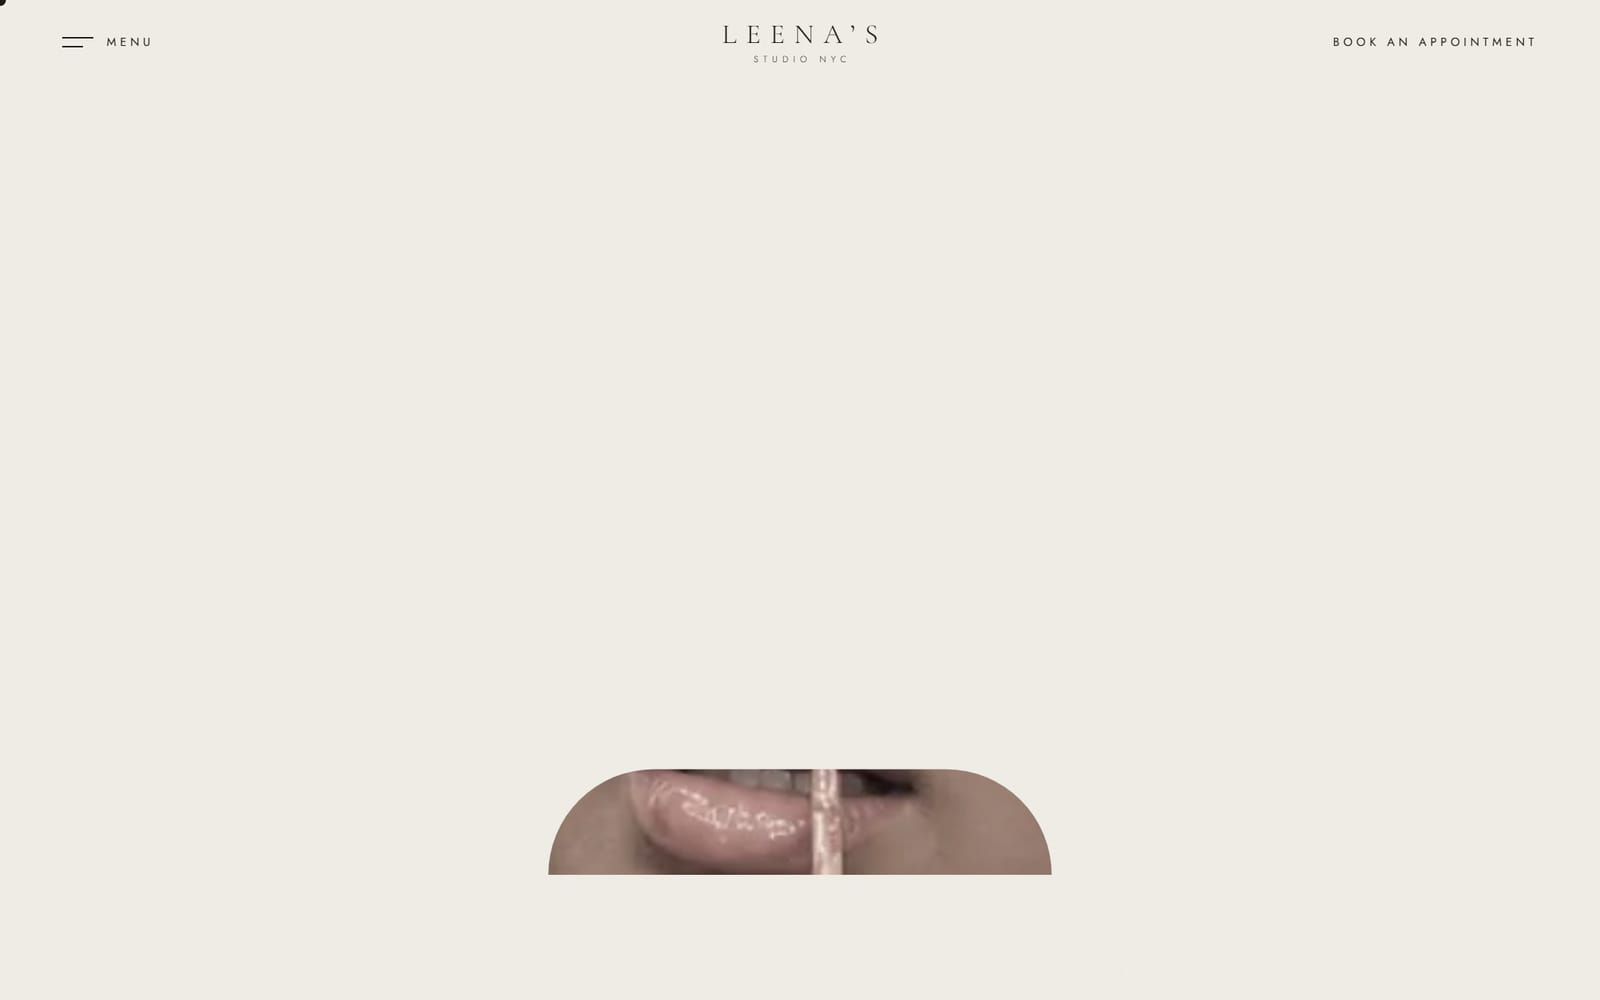
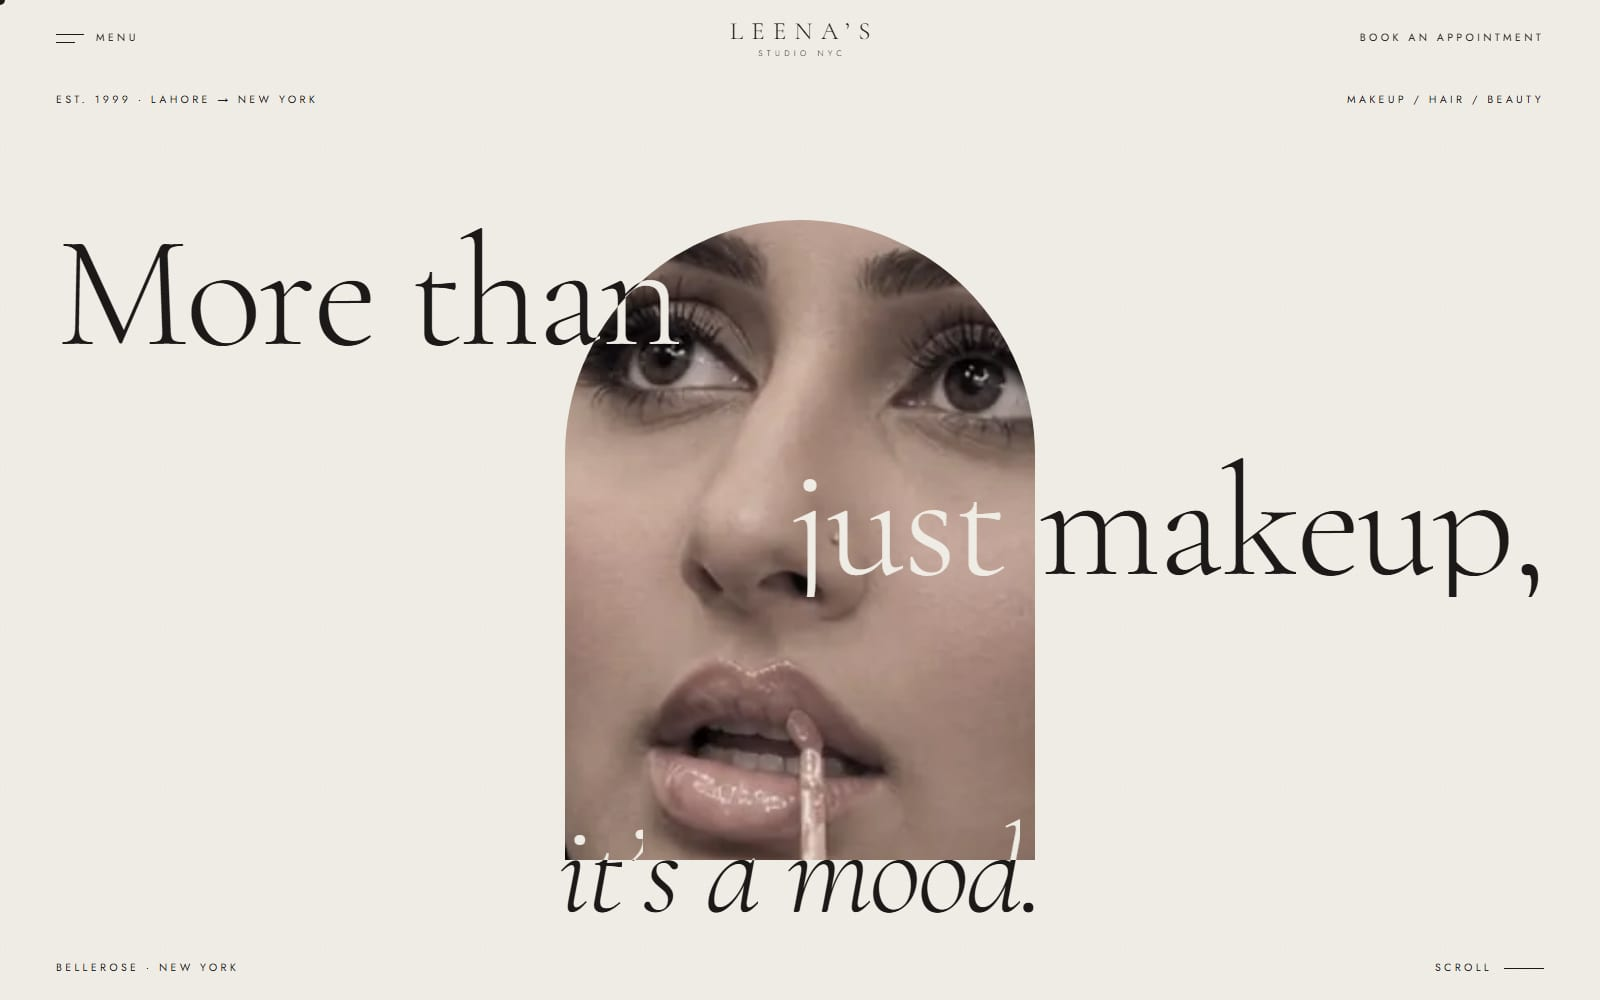
Add Sameer Ahmed portfolio case study and fix Leena's Studio screenshot

diff --git a/src/lib/site.ts b/src/lib/site.ts
@@ -15,7 +15,7 @@ export type Project = {
   kind: string;
   summary: string;
   tags: string[];
-  theme: "editorial" | "product";
+  theme: "editorial" | "product" | "portfolio";
   image: string;
   imageAlt: string;
   // Facts below come from inspecting the live site, measured November 2026.
@@ -37,7 +37,8 @@ export const projects: Project[] = [
     tags: ["Editorial design", "Service menu", "Inquiry flow"],
     theme: "editorial",
     image: "/work/leena-studio-nyc.jpg",
-    imageAlt: "Leena's Studio NYC homepage with the studio wordmark, menu and booking link",
+    imageAlt:
+      "Leena's Studio NYC homepage with the headline “More than just makeup, it's a mood.” set around an arched portrait",
     facts: [
       { label: "Stack", value: "React + Vite" },
       { label: "Hosting", value: "Vercel" },
@@ -133,6 +134,62 @@ export const projects: Project[] = [
       {
         title: "Light on the wire",
         body: "On our test load the homepage transferred 136 kB across 13 requests, answered in 226 ms and finished loading in 1.3 seconds.",
+      },
+    ],
+    measuredNote: "Measured on a single desktop load, November 2026.",
+  },
+  {
+    slug: "sameer-ahmed",
+    name: "Sameer Ahmed",
+    url: "https://www.sameerahmed16.com",
+    kind: "Personal portfolio",
+    summary:
+      "A portfolio for a software engineer who builds voice agents for cardiac care. A live pulse line, a page that recolors per project, and a playable cricket over, all in one small bundle.",
+    tags: ["Interactive portfolio", "Canvas animation", "Mini-game"],
+    theme: "portfolio",
+    image: "/work/sameer-ahmed.jpg",
+    imageAlt:
+      "Sameer Ahmed's portfolio homepage with his name in large type above a red heartbeat line",
+    facts: [
+      { label: "Stack", value: "React + Vite" },
+      { label: "Hosting", value: "Vercel" },
+      { label: "Structure", value: "1 page, 8 sections" },
+      { label: "Full load", value: "0.6 s" },
+    ],
+    brief: [
+      "Sameer is a software engineer at a remote cardiac monitoring company in Houston, and one of the four of us. A résumé lists that. It does not show what he is like to work with or how he builds.",
+      "The portfolio had to do both jobs at once: give a recruiter the facts in under a minute, and give anyone curious a reason to stay and poke at it. Every interactive piece had to come from his actual story, so nothing on the page is decoration for its own sake.",
+    ],
+    built: [
+      {
+        title: "A pulse that reads you",
+        body: "A heartbeat line runs under the hero and speeds up as you move faster, with the rate shown in beats per minute. It is a nod to the cardiac monitoring work he does every day.",
+      },
+      {
+        title: "Projects that recolor the page",
+        body: "Eight projects sit in one list. Opening one changes the color of the whole page to match it, so each project feels like its own room without leaving the page.",
+      },
+      {
+        title: "Face an over",
+        body: "A six-ball batting game you play with space, a click or a tap. He was best batsman in a national championship side, and this says so better than a bullet point.",
+      },
+      {
+        title: "The route, measured",
+        body: "Karachi, State College, New York and Houston, laid out with the distance between each stop and the current local time in every city.",
+      },
+    ],
+    engineering: [
+      {
+        title: "Four requests, 108 kB",
+        body: "The whole site, game included, arrived in four requests and 108 kB on our test load, and finished loading in 0.6 seconds.",
+      },
+      {
+        title: "Drawn, not downloaded",
+        body: "The pulse line and the cricket game are drawn on canvas in code. There are no videos or animation files to fetch, which is why the page stays this light.",
+      },
+      {
+        title: "Sound and light are opt-in",
+        body: "Sound starts off and there is a day mode one tap away, so the page behaves on a quiet train or a bright screen.",
       },
     ],
     measuredNote: "Measured on a single desktop load, November 2026.",

diff --git a/src/app/page.tsx b/src/app/page.tsx
@@ -116,9 +116,9 @@ function Work() {
         <SectionHead
           index="01"
           label="Selected work"
-          title="Two clients, two very different sites. Same standard underneath."
+          title="Three launches, three very different sites. Same standard underneath."
         />
-        <div className="grid gap-6 md:grid-cols-2">
+        <div className="grid gap-6 md:grid-cols-2 lg:grid-cols-3">
           {projects.map((p, i) => (
             <Reveal key={p.slug} delay={i * 120}>
               <Tilt>
@@ -133,7 +133,7 @@ function Work() {
                     src={p.image}
                     alt={p.imageAlt}
                     fill
-                    sizes="(min-width: 768px) 560px, 100vw"
+                    sizes="(min-width: 1024px) 370px, (min-width: 768px) 50vw, 100vw"
                     className="parallax object-cover object-top"
                   />
                 </div>
